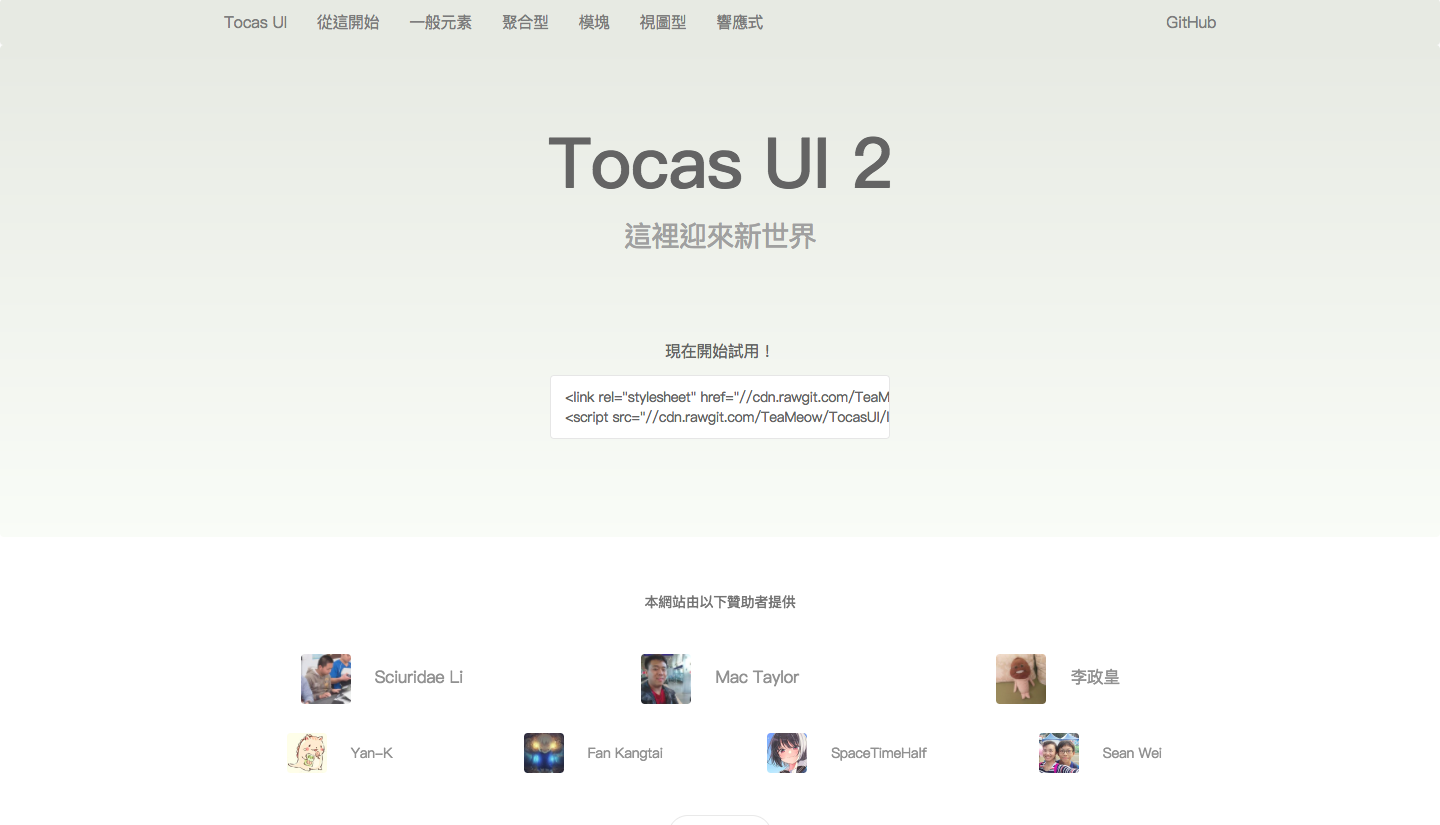
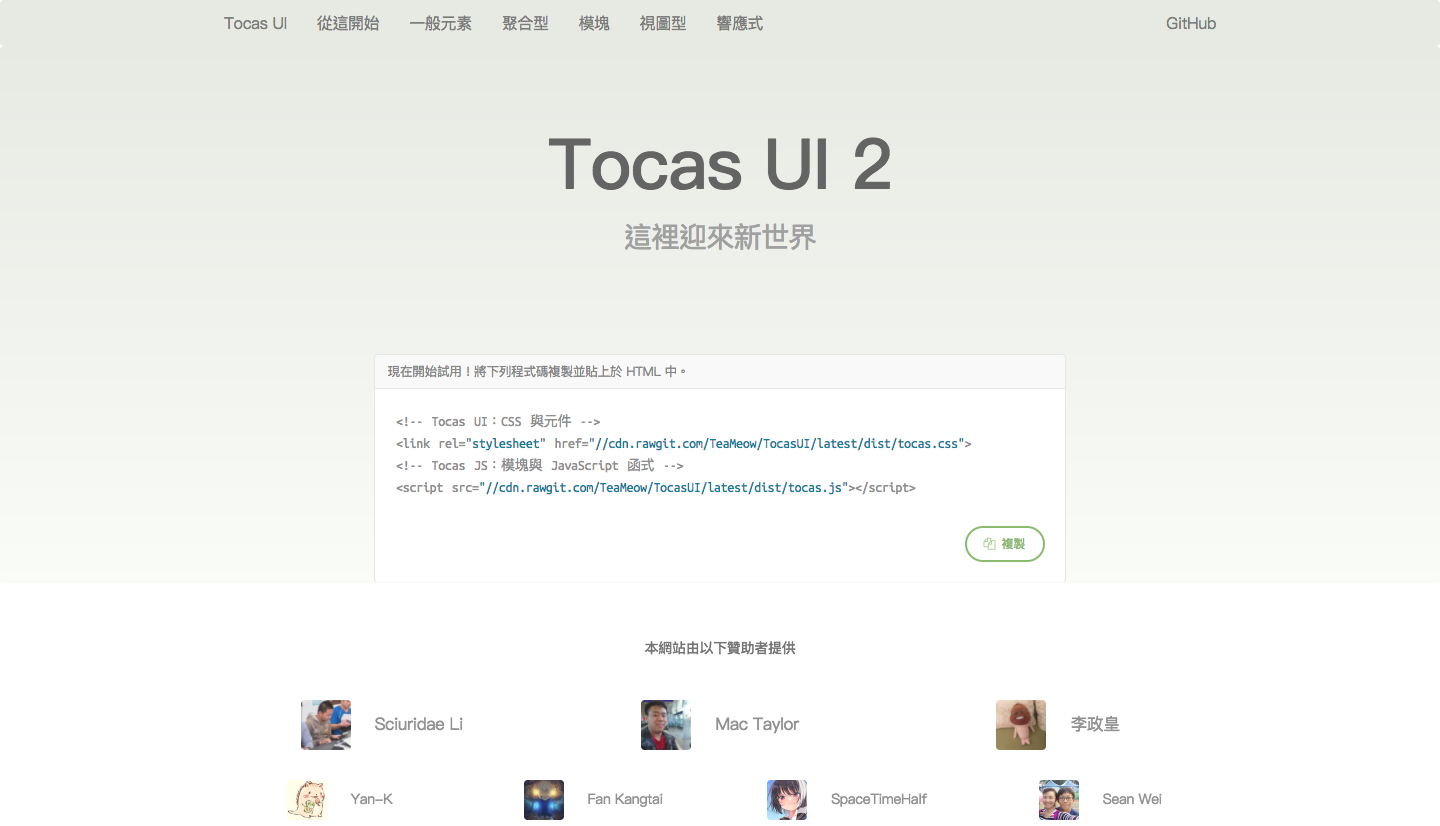
New homepage fast import design

diff --git a/client/components/homepage.vue b/client/components/homepage.vue
@@ -12,7 +12,7 @@
 //
 
 .slate
-    padding-bottom: 7em !important
+    padding-bottom: 0 !important
     background: linear-gradient(180deg,#e7eae3 0,#f9fcf7) !important
 
 .slate_header
@@ -27,13 +27,26 @@
     color: #656565
     font-size: 16px
 
+.slate_importMessage
+    margin-top: 6em !important
+    width: 100%
+    max-width: 692px
+    line-height: 1.9em !important
+    font-size: .9em !important
+
 .slate_import
     width: 100%
-    max-width: 340px
+    max-width: 692px
+    overflow: scroll
+    line-height: 1.6em !important
+    box-shadow: none !important
+    border-bottom: 1px solid #f7faf5 !important
+    padding-bottom: 6em !important
 
-    textarea
-        white-space: nowrap
-        line-height: 1.45em !important
+[data-clipboard-target="#import"]
+    position: absolute !important
+    right: 20px
+    bottom: 20px
 
 //
 // Donators
@@ -130,11 +143,18 @@
                 .sub.header(:class='$style.slate_subHeader') 這裡迎來新世界
 
             //- 快速使用
-            p(:class='$style.slate_description') 現在開始試用！
-            .ts.fluid.input(:class='$style.slate_import')
-                textarea(rows='2').
-                    <link rel="stylesheet" href="//cdn.rawgit.com/TeaMeow/TocasUI/latest/dist/tocas.css">
-                    <script src="//cdn.rawgit.com/TeaMeow/TocasUI/latest/dist/tocas.js"></script>
+            .ts.fluid.mini.top.attached.message(:class="$style.slate_importMessage")
+                | 現在開始試用！將下列程式碼複製並貼上於 HTML 中。
+            pre.ts.bottom.attached.padded.segment(:class="$style.slate_import")
+                code.html.hljs.escaped#import.
+                    &lt;!-- Tocas UI：CSS 與元件 --&gt;
+                    &lt;link rel=&quot;stylesheet&quot; href=&quot;//cdn.rawgit.com/TeaMeow/TocasUI/latest/dist/tocas.css&quot;&gt;
+                    &lt;!-- Tocas JS：模塊與 JavaScript 函式 --&gt;
+                    &lt;script src=&quot;//cdn.rawgit.com/TeaMeow/TocasUI/latest/dist/tocas.js&quot;&gt;&lt;/script&gt;
+                button.ts.mini.circular.basic.inverted.positive.button(data-clipboard-target="#import")
+                    i.copy.icon
+                    | 複製
+
         //- 友情贊助
         div(:class="$style.donators")
             .ts.center.aligned.narrow.container
@@ -236,6 +256,18 @@
 
 <script>
 export default {
-    name: 'Homepage'
+    name: 'Homepage',
+    mounted() {
+        var clipboard = new Clipboard('[data-clipboard-target="#import"]')
+
+        clipboard.on('success', function(e) {
+            document.querySelectorAll('[data-clipboard-target="#import"]').forEach((el) => {
+                el.innerText = '已成功複製！'
+                el.className += ' disabled'
+            })
+
+            e.clearSelection()
+        })
+    }
 }
 </script>

diff --git a/build/index.html b/build/index.html
@@ -6,6 +6,7 @@
         <meta name="viewport" content="width=device-width, initial-scale=1.0">
         <link href="//fonts.googleapis.com/css?family=Ubuntu+Mono" rel='stylesheet'>
         <script src="//cdnjs.cloudflare.com/ajax/libs/highlight.js/9.0.0/highlight.min.js"></script>
+        <script src="https://cdnjs.cloudflare.com/ajax/libs/clipboard.js/1.6.0/clipboard.min.js"></script>
         <title><%= htmlWebpackPlugin.options.title %></title>
 
         <!-- Useless Meta -->

diff --git a/client/router.js b/client/router.js
@@ -19,7 +19,7 @@ router.afterEach((to, from, next) => {
     // 類似 Async 的概念，沒有 setTimeout 的話 HightlightJS 無法替元素上色。
     setTimeout(() => {
         // 脫逸 <code> 裡面的 HTML。
-        document.querySelectorAll('code.hljs').forEach((el) => {
+        document.querySelectorAll('code.hljs:not(.escaped)').forEach((el) => {
             el.innerText = el.innerHTML
         })
 
